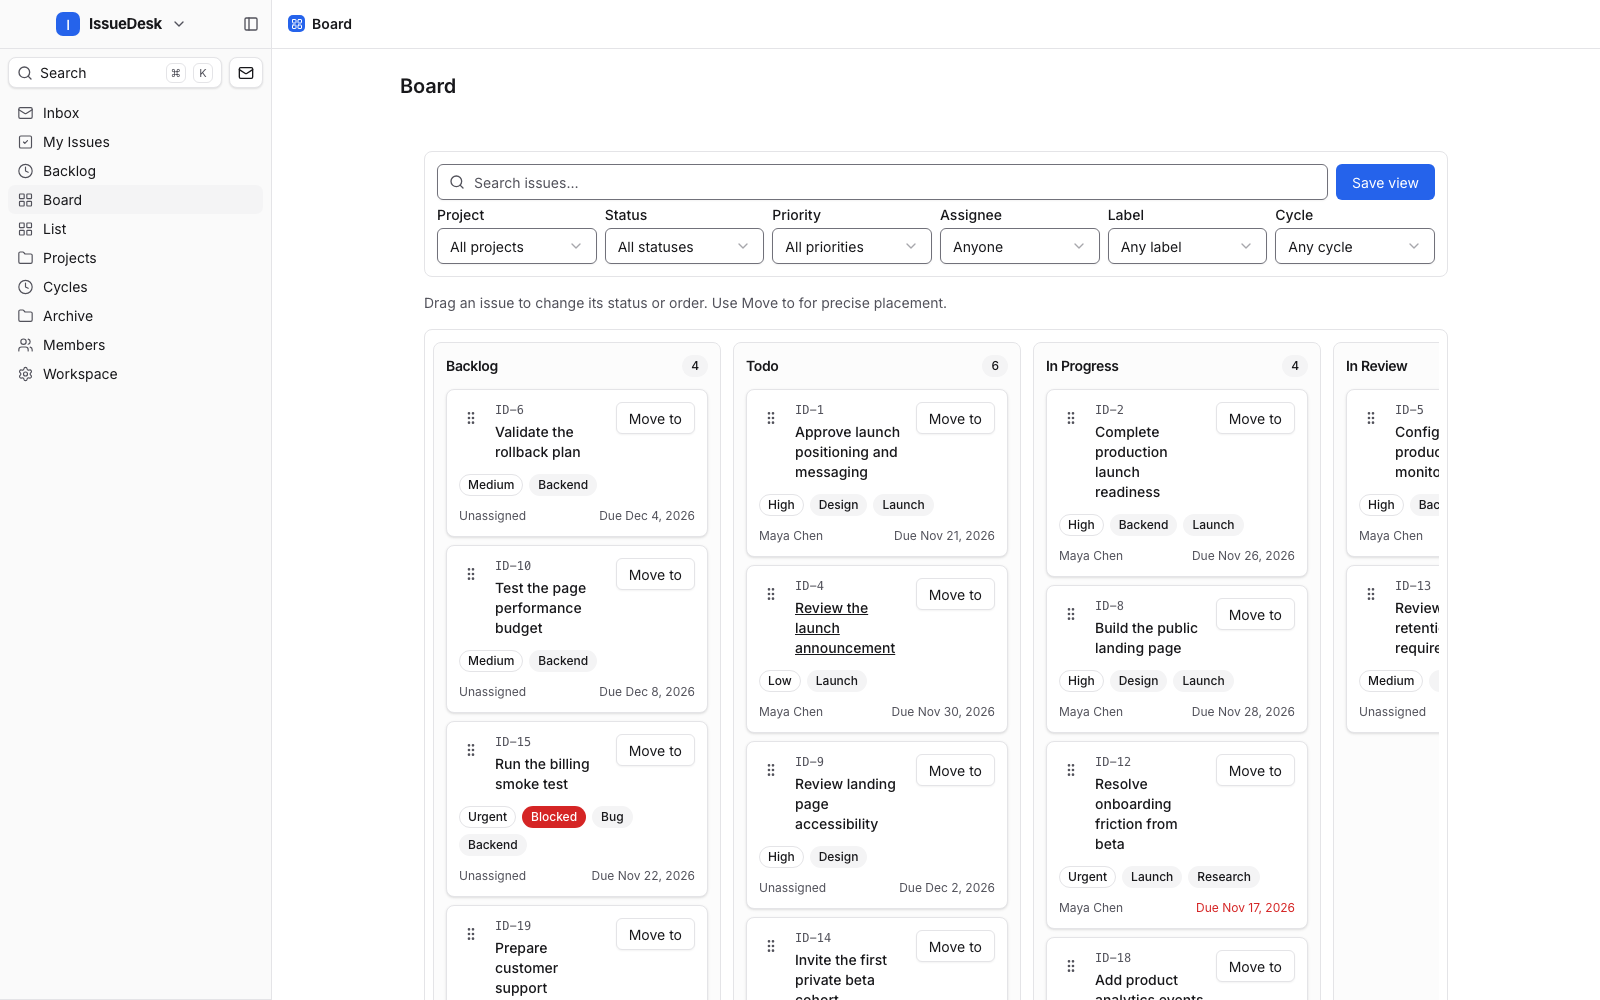
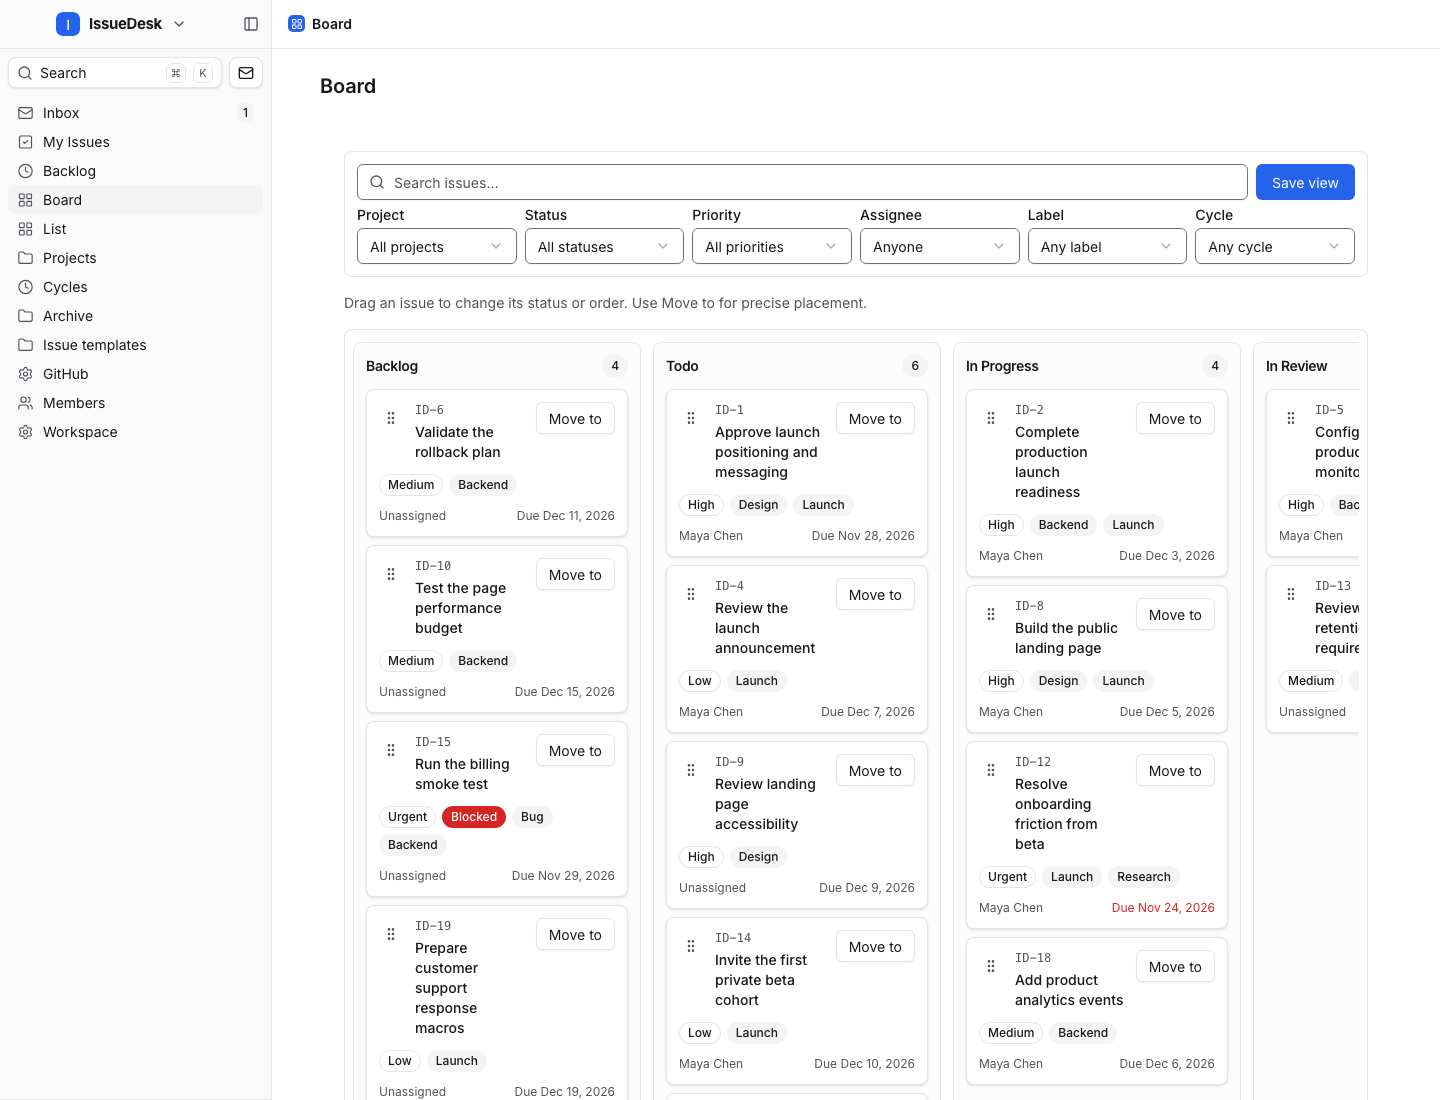
Refresh IssueDesk template metadata and original workflow gallery

diff --git a/.neander/gallery/README.md b/.neander/gallery/README.md
@@ -1,0 +1,20 @@
+# Original IssueDesk gallery
+
+These unmodified browser captures were made from IssueDesk application commit
+`444959683ed4261a7ed602405312468afa3e9f06` on 25 November 2026 using a fresh
+disposable PostgreSQL database, the fictional Product Launch seed, and new fictional
+templates, project health notes and an issue. Maya Chen is a seeded fictional user.
+No customer records, vendor media, reference screens or authenticated account data
+were copied. The thumbnail shows the seeded board; ordered screenshots show the
+three added workflows and a measured 375px project-health view.
+
+`github-pr-controlled-demo.png` uses the application's real GitHub App authentication,
+HTTP and completion code against the existing controlled provider fixture with a
+disposable signing key. It demonstrates a fictional merged PR and explicit opt-in
+completion. It is not a real GitHub connection or live-provider verification. A
+new installation remains Unconfigured until an operator supplies App configuration.
+
+Gallery changes update template presentation only. They do not replace the complete
+behavioral qualification at the source above, perform a deployment, or publish a
+catalog release. The existing central template publisher owns source-pinned release
+verification and asset publication after protected-main integration.
